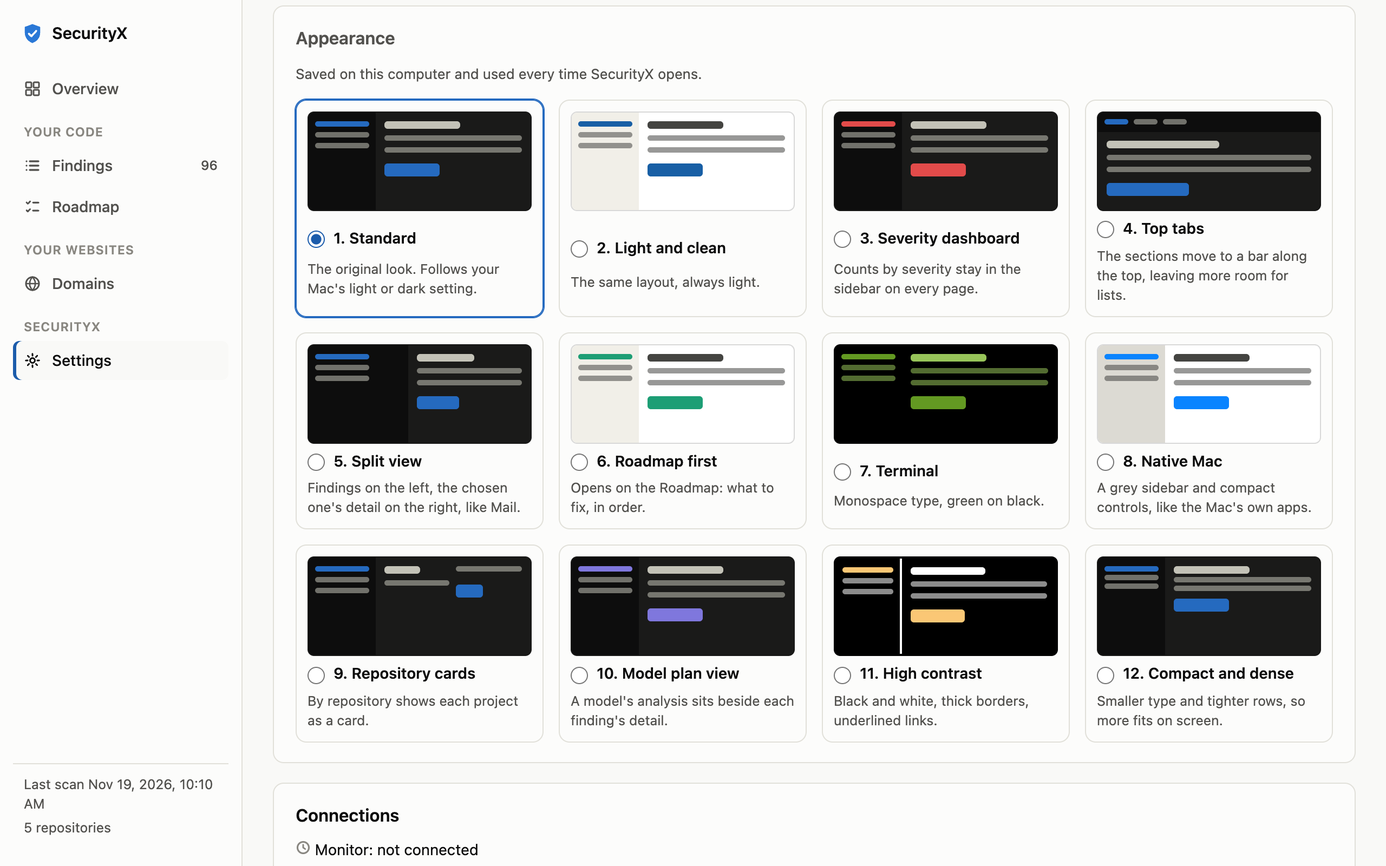
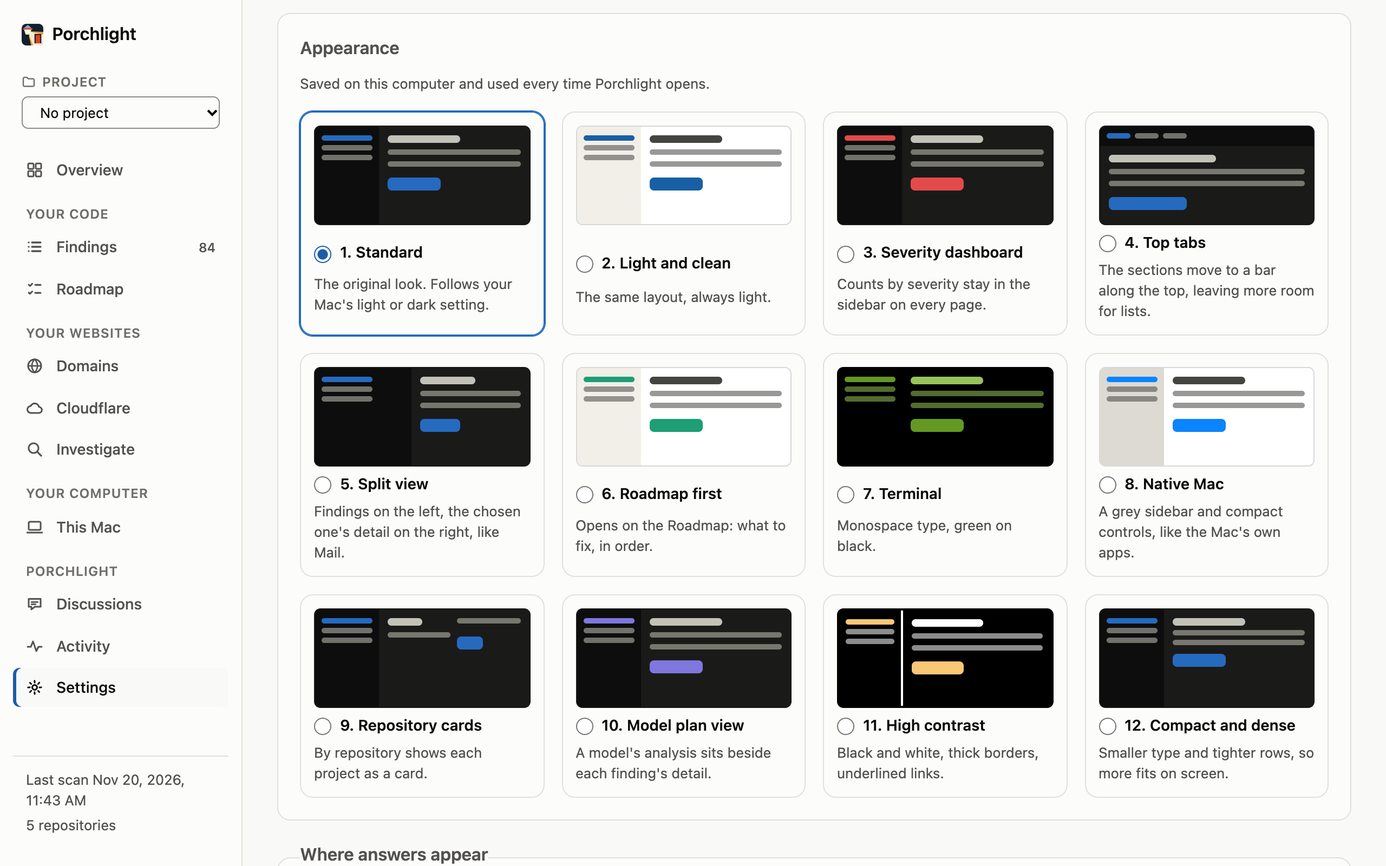
Describe the whole system in the README, and retake the figures as Porchlight
The opening covered repository scanning and websites only, and the
screenshots still showed the old name and shield. It is now a system
description: the four things Porchlight inspects, a diagram of the
components and what crosses between them, each subsystem's input, method
and output, the operating modes, every destination data is sent to, the
design constraints with the test that verifies each, failure behaviour,
and the numeric limits with where each is set. Every test name and number
was checked against this commit.

The figures are retaken from made-up repositories checked by the real
scanners, a model in LM Studio, and stand-in data for the Cloudflare
account, the monitor and the computer check. Six are new: Explain in the
answers panel, Discussions, the Cloudflare audit, Domains, Investigate
and the computer check.

diff --git a/README.md b/README.md
@@ -1,12 +1,42 @@
 # Porchlight
 
 <picture>
-  <img alt="Porchlight: a lantern beside a front door throws a hard beam across the wall, the door and the steps. Nothing left out in the open. Your repos, your servers, your computer." src="docs/brand/hero.png">
+  <img alt="Porchlight: a lantern on a wall bracket throws a hard beam across a wall, a red front door and its steps." src="docs/brand/hero.png">
 </picture>
 
-Find the keys and passwords committed to your code and the packages with known security holes, across every repository you have, and see what to fix first. Keep an eye on the websites you own as well. Porchlight runs on your own machine, as a page in your browser or as a Mac app.
+Porchlight is a security inspection tool that runs on its operator's own computer. It inspects four things:
 
-## Quick start
+1. **Code.** Every git repository under a folder, including its full commit history, for committed credentials (gitleaks) and dependencies with published advisories (osv-scanner).
+2. **Websites.** Domains the operator has proven to own with a DNS record, scanned daily by a Cloudflare Worker for new hostnames, DNS changes, certificate expiry and missing security headers.
+3. **The Cloudflare account.** Every zone's TLS, DNS, email, firewall and bot settings, the account's members and its API tokens, checked against fixed rules that take each zone's plan into account.
+4. **The computer Porchlight runs on.** Pending updates, built-in protections, programs that accept network connections, credentials stored in plain-text files, and outdated packages.
+
+Findings are ranked by severity and grouped into an ordered repair plan. A language model can be attached to explain findings, analyse them against the code and answer questions. It is optional, it sees only what the page shows, and nothing it writes changes a finding, a count or the plan.
+
+| | |
+| --- | --- |
+| Interfaces | macOS app, web interface on 127.0.0.1, command line, container image |
+| Platforms | macOS (the app needs macOS 13.5 or later on Apple silicon). Linux for the command line and the container |
+| Requires | Node.js 22.18 or later, git, gitleaks, osv-scanner. The Mac app carries its own Node.js, gitleaks and osv-scanner |
+| Runtime dependencies | None. Node runs the TypeScript directly; the web interface is plain JavaScript with no build step |
+| Monitor | A Cloudflare Worker with a D1 database, deployed to the operator's own Cloudflare account. Optional |
+| Stored data | `~/.porchlight/`: reports, history, settings, keys and results, written readable only by the operator (0600) |
+
+## Contents
+
+1. [Quick start](#1-quick-start)
+2. [System overview](#2-system-overview)
+3. [Subsystems](#3-subsystems)
+4. [Operating modes](#4-operating-modes)
+5. [Data that leaves the computer](#5-data-that-leaves-the-computer)
+6. [Design constraints and their verification](#6-design-constraints-and-their-verification)
+7. [Failure behaviour](#7-failure-behaviour)
+8. [Limits](#8-limits)
+9. [Interface](#9-interface)
+
+Reference: [Setup](#setup) · [Web interface](#web-interface) · [Mac app](#mac-app) · [Open it from other devices](#open-it-from-other-devices) · [Run on BoxPilot](#run-on-boxpilot) · [Model](#model) · [Scan repositories](#scan-repositories) · [Deeper analysis](#deeper-analysis-with-a-model) · [Fetch from GitHub](#fetch-repositories-from-github) · [Export](#export-a-repair-roadmap) · [Send to a model](#send-to-a-model) · [Discussions](#discussions) · [Projects](#projects) · [History](#history-status-and-notes) · [Investigate](#investigate-with-a-model) · [Check this Mac](#check-this-mac) · [Cloudflare audit](#audit-your-cloudflare-account) · [Monitor domains](#monitor-domains) · [Development](#development)
+
+## 1. Quick start
 
 ```bash
 brew install node gitleaks osv-scanner
@@ -16,60 +46,176 @@ npm run setup
 node cli/bin/porchlight.js ui --root ~/Projects
 ```
 
-Open the link it prints, then choose **Check your code**. If something is missing, `node cli/bin/porchlight.js doctor` says what, and how to get it.
+Open the link it prints and choose **Check your code**. `node cli/bin/porchlight.js doctor` lists anything missing and the command that installs it.
 
-On a Mac with Apple silicon you can skip all of that: download `Porchlight-<version>-arm64.dmg` from the [latest release](https://github.com/AES256Afro/Porchlight/releases/latest) and see [Mac app](#mac-app).
+On a Mac with Apple silicon, the alternative is `Porchlight-<version>-arm64.dmg` from the [latest release](https://github.com/AES256Afro/Porchlight/releases/latest); see [Mac app](#mac-app).
+
+## 2. System overview
+
+```mermaid
+flowchart LR
+  subgraph local["Operator's computer"]
+    page["Browser page or Mac app"]
+    core["Porchlight process<br/>127.0.0.1:4747"]
+    scanners["gitleaks, osv-scanner"]
+    tools["System tools, read-only"]
+    repos[("Git repositories")]
+    store[("~/.porchlight, mode 0600")]
+    localmodel["Local model, optional<br/>Ollama, LM Studio, Unsloth Studio"]
+  end
+  page -- "session key on every request" --> core
+  core --> scanners --> repos
+  core --> tools
+  core --> store
+  core --> localmodel
+  scanners -- "package names and versions" --> osv["OSV.dev"]
+  core -- "API token, header only" --> cfapi["Cloudflare API"]
+  core -- "admin token, header only" --> worker["Monitor<br/>Cloudflare Worker and D1"]
+  worker --> sources["crt.sh, DNS over HTTPS"]
+  worker -- "one GET / per host" --> domains["Proven domains"]
+  core -. "approved requests only" .-> domains
+  core -. "opt-in" .-> hosted["Hosted model API"]
+  core -. "opt-in" .-> github["GitHub"]
+```
+
+Porchlight is one Node.js process. The browser page and the Mac app are clients of the server it runs on 127.0.0.1. The page is never sent the monitor's admin token, a model's API key, the GitHub token or the Cloudflare token; the server adds them to its own requests. The scanners and the system tools run as child processes, with arguments passed as an array (no shell) and a time limit on each. The domain monitor is a separate deployment in the operator's Cloudflare account, and Porchlight reaches it with an admin token.
+
+## 3. Subsystems
+
+| Subsystem | Input | Method | Output | Source |
+| --- | --- | --- | --- | --- |
+| Repository scanner | Git repositories under a folder (3 levels by default, at most 6) and repositories fetched from GitHub | gitleaks over the full history, always with `--redact`; osv-scanner over lockfiles; secrets re-ranked one step per weak signal (generic rule, test or example path) | Findings ranked critical, high, medium, low; a "Not covered" list for anything not scanned | `cli/src/repos/` |
+| Repair roadmap | A scan | Findings grouped into actions: one per package to upgrade, credential to rotate, or batch of doubtful matches. The upgrade target is the lowest version that clears every advisory against the package | Four phases: Fix now, Fix next, Schedule, When convenient | `cli/src/roadmap/` |
+| Scan history | Each finished scan | Findings matched across scans by repository, rule or advisory, file and detail | New, fixed, and "could not be checked again" | `cli/src/repos/history.ts` |
+| Domain monitor | Domains whose `_porchlight-challenge` TXT record holds their token | Certificate Transparency logs, DNS over HTTPS, one `GET /` per host without following redirects | Changes since the previous scan, findings, webhook alerts | `monitor/` |
+| Cloudflare audit | Every zone in the account | Fixed rules, no model. A feature the zone's plan lacks is reported as unavailable, not as a fault | Problems per zone; 11 fixed change templates, sent only after approval | `cli/src/cloudflare/` |
+| Host check | The computer Porchlight runs on | macOS's own tools, read-only, each with a time limit | Results in five areas, and the repair commands that need no decision gathered into one block | `cli/src/host/` |
+| Investigation | One proven domain and its subdomains | A model proposes one action per turn from three tools (DNS lookup, one HTTP request, one TCP connect); code checks each action and asks for approval | Findings that cite evidence captured in the same run | `cli/src/investigate/` |
+| Model assistance | What the page shows | Explain, Summarise, Ask, Deeper analysis, Send to a model, an export mural | Labelled text beside findings, kept as discussions | `cli/src/assist/`, `cli/src/analysis/`, `cli/src/discussions/` |
+| Exports | A scan, an audit or an investigation | Markdown, HTML (no script), CSV, JSON; every value escaped for its format | Files under fixed names; optionally a project folder | `cli/src/roadmap/escape.ts`, `cli/src/projects/` |
+| Web interface | The above | 10 pages, 12 looks, a status and note per finding; filters, order and page number kept in the address | | `cli/ui/` |
+
+## 4. Operating modes
+
+| Mode | Started with | Listens on | Notes |
+| --- | --- | --- | --- |
+| Mac app | `Porchlight.app` from the DMG, or `sh mac/build.sh --install` | 127.0.0.1 | Starts and stops the web interface with its window. Not notarized |
+| Web interface | `porchlight ui` | 127.0.0.1:4747, or the next free port | Session key generated per run, carried in the address fragment |
+| Command line | `porchlight repos scan`, `domains`, `host check`, `cloudflare audit`, `doctor` | | `repos scan --fail-on <severity>` exits 2 on a finding at or above it, and 1 if the scan was incomplete |
+| Container | `ghcr.io/aes256afro/porchlight`, or BoxPilot's catalog | 0.0.0.0:4747 inside the container | Refuses to start without `PORCHLIGHT_UI_KEY` of 32 characters or more. The host check is off; Cloudflare changes cannot be approved |
+| Other devices | Settings → Access from other devices | The Tailscale address only (100.64.0.0/10) | A separate 43-character access key. Only the page on the computer itself can turn it on or off |
+| Monitor | `npx cf deploy` in `monitor/` | Cloudflare Workers | Every `/domains` route answers 503 while `ADMIN_TOKEN` is missing or shorter than 32 characters |
+
+## 5. Data that leaves the computer
+
+| Destination | What is sent | When |
+| --- | --- | --- |
+| OSV.dev | Names and versions of the packages in the repositories' lockfiles. With the host check, names and versions of installed npm and Python packages | Every repository scan. The host check's lookup can be turned off |
+| Apple | macOS's own software update query | Host check, unless turned off |
+| Cloudflare API (`api.cloudflare.com`) | Read requests with the operator's token as a header; a change only after the operator approves that exact request | Cloudflare audit |
+| Cloudflare DNS over HTTPS | `_porchlight-challenge` lookups; an investigation's DNS lookups; the targets of a proven zone's CNAME records | Investigation; Cloudflare audit |
+| The operator's monitor | Domain names and commands, with the admin token as a header | Domains page and `porchlight domains` |
+| crt.sh, DNS over HTTPS, the domain itself (from the Worker) | Domain names; one `GET /` per host | Scheduled scans of verified domains |
+| A proven domain (from this computer) | DNS lookups, and each HTTP request and TCP connection the operator approved | Investigation |
+| A hosted model (Anthropic, OpenAI, Google, DeepSeek) | The fields the page displays for the item asked about | Only when a hosted model is selected and asked. The page names the destination before anything is sent |
+| A model server of the operator's | The same fields | When it is the selected model |
+| Hugging Face | The search words and filters | Model search in Settings |
+| GitHub | API requests and `git clone` over https, with the operator's token if given | Fetching repositories |
+| Devices on the operator's tailnet | The web interface | Only while Access from other devices is on |
+
+Never sent anywhere: secret values (reports do not hold them), commit author names and emails, the monitor's admin token, a domain's challenge value, and Set-Cookie values from investigated sites.
+
+## 6. Design constraints and their verification
+
+These hold for every release. `CLAUDE.md` lists all of them with the implementation details; the table names the test that checks each one. `npm test` runs both packages' tests, and CI runs them on every push.
+
+| # | Constraint | Verified by |
+| --- | --- | --- |
+| C1 | No request is made about a domain (certificate log, DNS other than the challenge record, HTTPS) until its ownership record has been confirmed in the same scan. | `monitor/test/scan.test.ts`, "ownership gate": asserts the exact list of requests |
+| C2 | The monitor only looks: one `GET /` per host, no redirects followed, no port scanning, no guessing of subdomains or paths. | `monitor/test/scan.test.ts`, "probes at most MAX_HOSTS hosts, lists the rest, and stays within its request budget" |
+| C3 | Secret values never leave the scanner. gitleaks always runs with `--redact`; reports carry no secret values, matches, author names or emails. | `cli/test/scan.test.ts`, "end to end: the real gitleaks finds a secret in history and the report never contains it" |
+| C4 | A scanned repository is untrusted input: its `.gitleaks.toml` cannot change the rules and its `.git/config` cannot run a program. | `cli/test/scan.test.ts`, "end to end: a hostile repository can neither run a program nor switch gitleaks' rules off"; step 4 of `scripts/container-smoke.sh` |
+| C5 | An incomplete scan is never a clean result: a missing scanner, or one that could not read a repository, is reported as not covered. | `cli/test/scan.test.ts`, "an unreachable vulnerability database is a failure, not a clean result" and "gitleaks reporting nothing because git could not read the history is a failure, not a clean result" |
+| C6 | A failed lookup is not an empty answer. It is never reported as a change and never clears a finding. | `monitor/test/findings.test.ts`, "stays silent about anything a failed lookup could not observe" |
+| C7 | The monitor's API fails closed: without an `ADMIN_TOKEN` of 32 characters or more, every `/domains` route answers 503. | `monitor/test/api.test.ts`, "refuses to run with no token, or a weak one, configured" |
+| C8 | The web interface answers only its own page: another Host name, a cross-site Origin, or a request without the session key is refused. | `cli/test/ui-server.test.ts`, "refuses requests addressed to any other host name" and "requires the session key on every API call and refuses cross-site origins" |
+| C9 | No HTML is built from scanned data. The page builds every element with `h()` (`cli/ui/dom.js`), never with `innerHTML`, and its Content-Security-Policy allows no inline script or style. | Test: `cli/test/ui-server.test.ts`, "serves the page with headers that confine it to this server". Inspection: no `innerHTML` in `cli/ui/` |
+| C10 | Exports are escaped for their format: HTML entities, a leading apostrophe before spreadsheet formula characters in CSV, escaped text in Markdown. | `cli/test/roadmap.test.ts`, "hostile text in a scan cannot become markup, a link or a formula in any format" |
+| C11 | Triage re-ranks secrets and never drops one. | `cli/test/triage.test.ts`, "each signal lowers the rank one step and says why" |
+| C12 | A model sees only what the page shows, framed as data. Its answer is shown as text, labelled with the model's name, and never acted on. An answer that is not the requested JSON becomes "unclear". | `cli/test/assist.test.ts`, "explains one finding from what the page shows, framed as data"; `cli/test/analysis.test.ts`, "turns the model's answer into a judgement, and anything else into 'unclear'" |
+| C13 | An investigation stays inside the proven domain and its subdomains, re-checks ownership before every action, refuses private, loopback, link-local and CGNAT addresses, and keeps a finding only if it cites evidence from the same run. | `cli/test/investigate.test.ts`, "scope: the verified domain and its subdomains, nothing else", "ownership lost mid-run stops the run before the next action", "a host that resolves to a private address is refused after approval, before connecting", "findings are kept only with evidence this run captured" |
+| C14 | The Cloudflare token is sent only to `api.cloudflare.com`, as a header. A change is one of the fixed templates, offered only for a problem the latest audit found, and sent once after approval. | `cli/test/cloudflare.test.ts`, "every request goes to Cloudflare's API with the token as a header only, and only reads"; `cli/test/cloudflare-server.test.ts`, "a change is sent only after the owner approves the exact request, once, and is recorded" |
+| C15 | The host check only reads. A check that could not run, or whose answer is not recognised, is "Could not check", never passed. | `cli/test/host.test.ts`, "an answer that is not understood, a failure or a missing tool is never a pass" |
+| C16 | The GitHub token reaches only GitHub, as a header or through git's environment; never an argument, an address, a report or the page. | `cli/test/github.test.ts`, "clones with git settings that run nothing a repository carries, and keeps the token out of every argument" |
+
+## 7. Failure behaviour
+
+| Condition | Behaviour |
+| --- | --- |
+| gitleaks or osv-scanner missing, or failing on a repository | That repository is listed under "Not covered". `--fail-on` exits 1. The other repositories are still scanned |
+| osv-scanner cannot reach its database (exit 127, empty report) | Treated as a failure. Only exit codes 0, 1 and 128 count as a result |
+| A scan is stopped | Nothing is saved. The previous scan stays as it was |
+| One repository is scanned again and a scanner fails that time | The findings that scanner reported before are kept |
+| A monitor DNS lookup fails | The value is stored as not observed. No change is reported and no finding is cleared |
+| The certificate log is unavailable | The host list is kept and the report says so |
+| A domain's challenge record disappears | Scanning stops and one alert is sent |
+| A monitor scan fails | Retried after 1 hour, then every 2 hours. One alert after 3 failures in a row, and one when scans work again |
+| The monitor's database lacks a migration | The API answers "The database is missing a migration" |
+| The Cloudflare token may not read a setting | The check shows "Could not check" and names the permission to add |
+| A batch of Cloudflare changes meets a permission the token lacks | The first refusal is recorded and the remaining changes that need it are not sent |
+| An ownership lookup fails during an investigation | The run stops. A failed lookup never counts as proof |
+| A host-check command does not answer | It is stopped at its time limit and its check shows "Could not check" |
+| A model's answer is not the JSON asked for | The verdict is "unclear" |
+
+## 8. Limits
+
+| Parameter | Value | Where it is set |
+| --- | --- | --- |
+| Repository search depth | 3 levels (0 to 6) | `--depth`, `PORCHLIGHT_SCAN_DEPTH` |
+| Scans kept in history | 50 | `cli/src/repos/history.ts` |
+| Discussions kept | 200, each up to 20 answers | `cli/src/discussions/discussions.ts` |
+| Earlier answers sent to a local model in a follow-up | 6,000 characters, oldest dropped first | `cli/src/discussions/discussions.ts` |
+| Wait for a model's answer | 5 minutes | `cli/src/assist/ollama.ts` |
+| Deeper analysis per run | 25 items by default, at most 500 | Overview page |
+| Investigation turns | 25 by default, at most 60 | Investigate page |
+| Gap between investigation actions on one host | 1 second | `cli/src/investigate/engine.ts` |
+| Investigation HTTP request | Body read up to 32 KiB, 15-second time limit | `cli/src/investigate/tools.ts` |
+| Investigations kept | 50 | `cli/src/investigate/store.ts` |
+| Time to approve a Cloudflare change | 10 minutes | `cli/src/cloudflare/apply.ts` |
+| Host-check command time limit | 2 minutes; 5 for `softwareupdate` when it asks Apple | `cli/src/host/` |
+| Activity view | Last 400 lines, in memory only | `cli/src/ui/server.ts` |
+| `PORCHLIGHT_UI_KEY`, the monitor's `ADMIN_TOKEN` | At least 32 characters | `cli/src/ui/server.ts`, `monitor/src/api.ts` |
+| Scanner time limit | 10 minutes per command | `cli/src/repos/exec.ts` |
+| Monitor schedule | Every 10 minutes, one domain whose last scan is over 24 hours old | `monitor/cloudflare.config.ts` |
+| Hosts probed per monitor scan | 12 (`MAX_HOSTS`), keeping a scan under the Workers Free plan's 50 outbound requests | `monitor/cloudflare.config.ts` |
+| Certificate expiry warning | 14 days, at most a fifth of the certificate's lifetime | `monitor/cloudflare.config.ts` |
+| Monitor scans kept per domain | 30 | `monitor/cloudflare.config.ts` |
+
+## 9. Interface
+
+The figures show made-up repositories checked by the real gitleaks and osv-scanner, a model running in LM Studio on the same computer, and stand-in data for the Cloudflare account, the monitor and the computer check.
 
 <picture>
   <source media="(prefers-color-scheme: dark)" srcset="docs/screenshots/overview-dark.png">
-  <img alt="The Overview: counts by severity, what to repair first, the most affected repositories, credentials that look live, and what was fixed since the last scan" src="docs/screenshots/overview.png">
+  <img alt="The Overview: counts by severity, the four repair phases, the most affected repositories, the model's analysis and what changed since the previous scan" src="docs/screenshots/overview.png">
 </picture>
 
-## Features
-
-- **Every repository at once.** Scans every git repository under a folder for committed secrets, old commits included ([gitleaks](https://github.com/gitleaks/gitleaks)), and for vulnerable dependencies ([osv-scanner](https://github.com/google/osv-scanner)). Everything lands in one list, most severe first. A key in a test file or an example is ranked lower, never hidden.
-- **A repair roadmap.** Findings become actions in four steps: Fix now, Fix next, Schedule, When convenient. One package upgrade can clear dozens of advisories, and the version to upgrade to is worked out from the whole repository, so following it clears every advisory against that package.
-- **Since the last scan.** Every scan is kept. The Overview says what is new and what was fixed. A finding counts as fixed only if the next scan really looked for it again; one that could not be checked is never shown as fixed.
-- **Your own status and note on each finding**: Open, In progress, Fixed, Accepted risk or False positive.
-- **Any model, or none.** A model can explain a finding, summarise the roadmap, answer questions about a scan, or judge each finding against your code. Run one on your Mac (Ollama, Unsloth Studio, LM Studio), on another computer, or use Claude, ChatGPT, Gemini or DeepSeek through their APIs; choose it in Settings. What a model says is shown as advice beside a finding. It never changes a severity, a count or the roadmap.
-- **Discussions.** Every answer a model gives is kept on your computer. Ask follow-up questions under it, and find it again on the Discussions page after Porchlight closes. See [Discussions](#discussions).
-- **Project folders.** Choose a folder for an audit or a scan, and the exports you save, the discussions and a daily log of what Porchlight did go into it, under names that say what each file is. See [Projects](#projects).
-- **Exports** in Markdown, HTML, CSV or JSON. HTML, Markdown and JSON exports can include a mural written by a model: what was found, what to fix and in what order, what has been done, and what to do next.
-- **Fetch repositories from GitHub**, public or private, and scan them along with the ones on disk.
-- **Watch your websites.** A Cloudflare Worker checks the domains you own every day for new hostnames, DNS changes, expiring certificates and missing security headers. It scans a domain only after you prove it is yours with a DNS record.
-- **Investigate with a model.** On a website you have proven is yours, a model plans an investigation step by step: DNS lookups, single HTTP requests, TCP connections. HTTP requests and connections need your approval, one at a time or once for a whole run, ownership is checked again before every step, and every finding has to cite the request and response it rests on. See [Investigate with a model](#investigate-with-a-model).
-- **Audit your Cloudflare account.** Connect a read-only API token and Porchlight checks every domain in the account against built-in rules, no model needed: SSL/TLS mode, HTTPS, TLS versions, HSTS, certificates, DNSSEC, CAA, SPF, DKIM and DMARC, DNS records that expose your server or point at services that are gone, WAF managed rules, bot protection, members without two-factor authentication and API tokens with broad rights. The rules know each domain's plan. Porchlight can add its ownership record or fix a setting, but only once you approve the exact request. See [Audit your Cloudflare account](#audit-your-cloudflare-account).
-- **Check this Mac.** A read-only check of the computer Porchlight runs on: pending updates, FileVault, the firewall and macOS's other protections, what accepts connections from the network, credentials kept in plain-text files, and installed npm and Python packages with known vulnerabilities.
-- **A Mac app, twelve looks, and access from your other devices** over Tailscale.
+*Figure 1. Overview: counts by severity, the four repair phases, the most affected repositories, the model's analysis, and the changes since the previous scan.*
 
 | | |
 | --- | --- |
-| ![Findings in the Split view look: the list on the left, the chosen finding's advisory, fix and your note on the right](docs/screenshots/split-view.png) | ![The Roadmap: four steps, each action with where it is, what it clears and how to do it](docs/screenshots/roadmap.png) |
-| **Findings**, in the Split view look | **Roadmap**: what to fix, in order |
-| ![Findings by repository in the Severity dashboard look, with counts by severity in the sidebar](docs/screenshots/dashboard.png) | ![Settings → Model: models on this Mac, on another computer, or through an API](docs/screenshots/settings-model.png) |
-| **By repository**, in the Severity dashboard look | **Settings → Model**: any model, or none |
-| ![Settings → Appearance: twelve looks with previews](docs/screenshots/settings-appearance.png) | ![The Roadmap in the Terminal look: monospace, green on black](docs/screenshots/terminal.png) |
-| **Settings → Appearance**: twelve looks | The **Terminal** look |
-
-The screenshots show made-up repositories, checked by the real scanners.
-
-### What leaves your machine
-
-- **To [OSV.dev](https://osv.dev)**: the names and versions of the packages your repositories use, so osv-scanner can look up their advisories. Never your code. **This Mac** sends the names and versions of the npm and Python packages installed on the computer, unless you turn that off.
-- **To Apple**: when **This Mac** checks for updates, macOS asks Apple's update servers, as it does on its own. You can turn that off and use macOS's last check instead.
-- **To a hosted model, if you choose one**: only what the page shows about the findings you ask about. Never a secret's value, a commit author or an email address. The page warns you before anything is sent.
-- **To your own websites, and to the model you choose, if you investigate one**: the DNS lookups, HTTP requests and TCP connections you approve go from this computer to the domain you verified and its subdomains. The model is sent the domain, your goal, the tool list and the results (your site's DNS records and HTTP responses, Set-Cookie values left out). DNS lookups and the ownership check go to Cloudflare's DNS-over-HTTPS resolver. The page says this before a run starts, and with a hosted model the start button names it, so pressing it is your yes. See [Investigate with a model](#investigate-with-a-model).
-- **To GitHub**, only if you fetch repositories from it.
-- **To your own Cloudflare account**, if you deploy the monitor, or connect a token for the Cloudflare audit. The token goes only to Cloudflare's API. A change is sent only when you approve the exact request.
-
-Everything else, including the reports, stays on your machine, readable only by you.
-
-## How it is built
-
-Two security tools behind one command line:
-
-- **Repository scanner** (`cli/`): scans every git repository under a folder for committed secrets and vulnerable dependencies, and merges the results into one ranked report. It has no runtime dependencies: Node runs its TypeScript directly, and the web interface is plain JavaScript with no build step.
-- **Attack-surface monitor** (`monitor/`): a scheduled Cloudflare Worker that watches domains you own for new hostnames, DNS changes, expiring certificates and missing security headers, and alerts on what changed since the last scan.
+| ![Findings in the Split view look: the list on the left; the selected finding's advisory, repair and the model's verdict on the right](docs/screenshots/split-view.png) | ![The Roadmap: four phases, each action with its location, what it clears and how to do it](docs/screenshots/roadmap.png) |
+| *Figure 2. Findings in the Split view look, ordered by the model's verdict* | *Figure 3. Roadmap* |
+| ![A finding with the model's explanation open in the answers panel on the right](docs/screenshots/explain.png) | ![Discussions: every answer a model gave, kept with its follow-up questions](docs/screenshots/discussions.png) |
+| *Figure 4. Explain, answered in the panel on the right* | *Figure 5. Discussions* |
+| ![The Cloudflare audit: counts, the changes Porchlight can make after approval, and each kind of problem with its fix](docs/screenshots/cloudflare.png) | ![Domains: the monitor's latest report for one domain, with changes since the previous scan and findings](docs/screenshots/domains.png) |
+| *Figure 6. Cloudflare audit* | *Figure 7. Domains, from the monitor* |
+| ![Investigate: a proven domain with its ownership record, and the form that starts a run](docs/screenshots/investigate.png) | ![This Mac: updates, built-in protection, network listeners, credentials in files and packages, each with its repair](docs/screenshots/host.png) |
+| *Figure 8. Investigate* | *Figure 9. The computer check* |
+| ![Findings by repository in the Severity dashboard look, with counts by severity in the sidebar](docs/screenshots/dashboard.png) | ![The Roadmap in the Terminal look: monospace, green on black](docs/screenshots/terminal.png) |
+| *Figure 10. By repository, in the Severity dashboard look* | *Figure 11. Roadmap, in the Terminal look* |
+| ![Settings → Model: a model on this computer, on another computer, or through an API](docs/screenshots/settings-model.png) | ![Settings → Appearance: twelve looks with previews](docs/screenshots/settings-appearance.png) |
+| *Figure 12. Settings → Model* | *Figure 13. Settings → Appearance* |
 
 ## Setup
 
